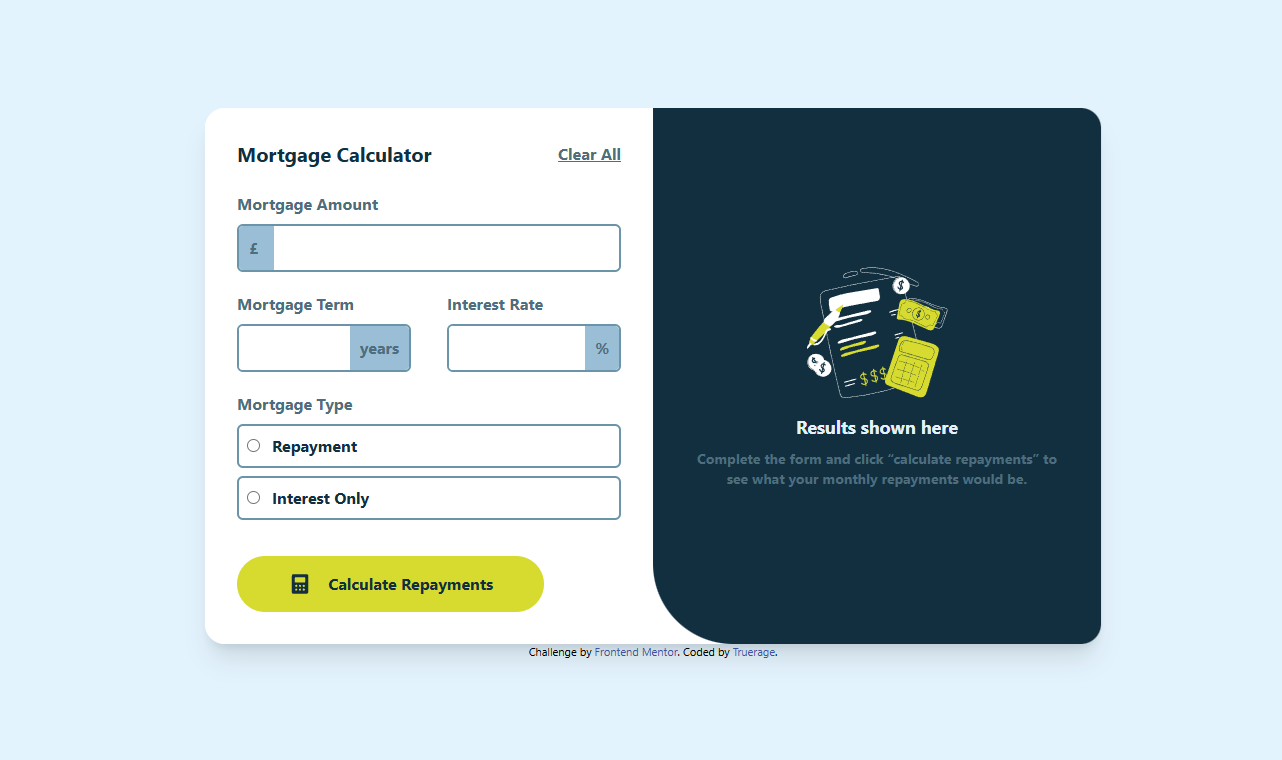
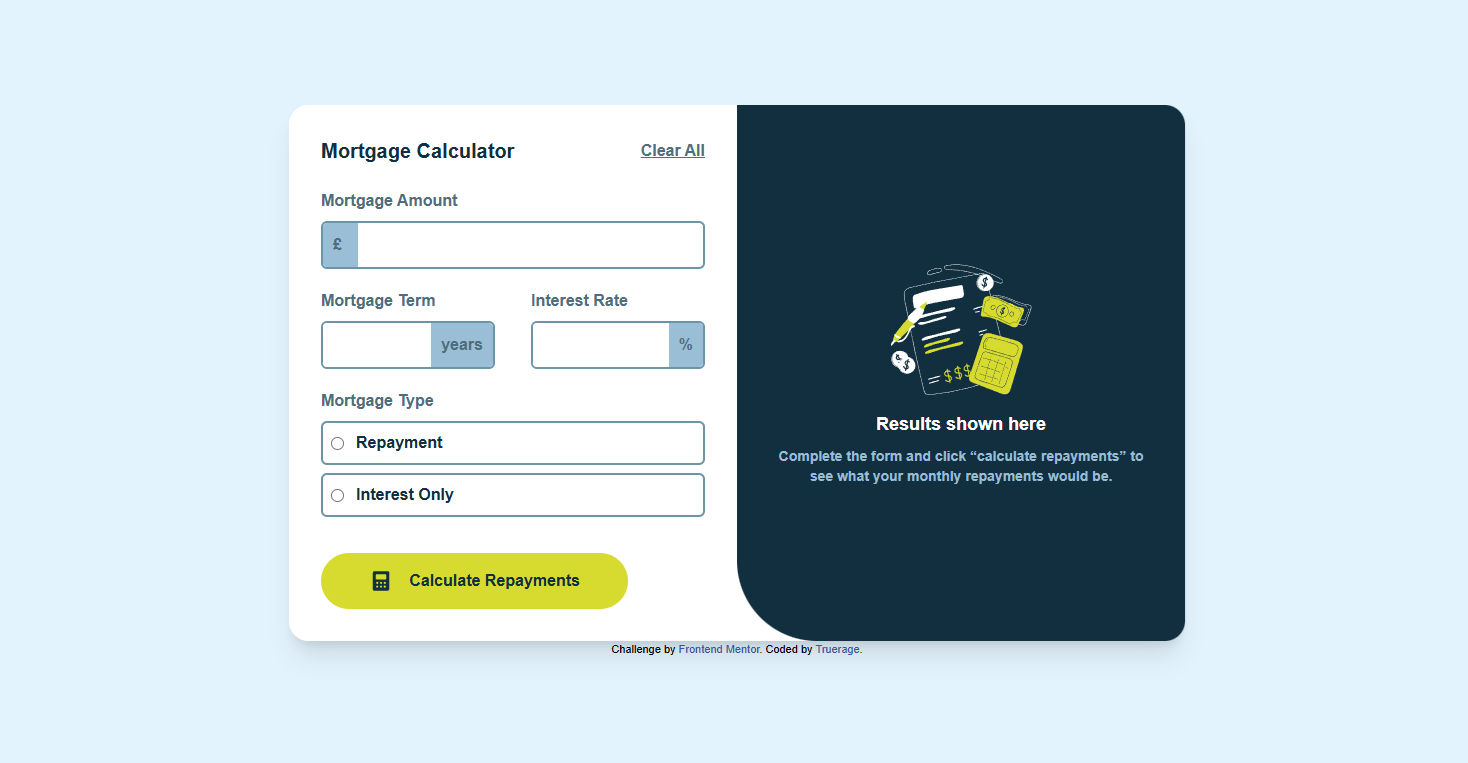
refactor

Changed region(s): [[0.156, 0.1211, 0.8736, 0.8776], [0.5928, 0.3329, 0.7488, 0.5145]]

diff --git a/index.html b/index.html
@@ -6,25 +6,46 @@
 
   <link rel="icon" type="image/png" sizes="32x32" href="./assets/images/favicon-32x32.png">
 
-  <script src="https://cdn.tailwindcss.com"></script>
+<script src="https://cdn.tailwindcss.com"></script>
   <script>
     tailwind.config = {
       theme: {
-        extend: {
+        extend: { 
           colors: {
-            "lime": "hsl(61,70%,52%)",
-            "red": "hsl(4,69%,50%)",
-            "white": "hsl(0,0%,100%)",
-            "slate-100": "hsl(202,86%,94%)",
-            "slate-300": "hsl(203,41%,72%)",
-            "slate-500": "hsl(200,26%,54%)",
-            "slate-700": "hsl(200,24%,40%)",
-            "slate-900": "hsl(202,55%,16%)"
+            lime: "hsl(61, 70%, 52%)",
+            red: "hsl(4, 69%, 50%)",
+            slate: {
+              100: "hsl(202, 86%, 94%)",
+              300: "hsl(203, 41%, 72%)",
+              500: "hsl(200, 26%, 54%)",
+              700: "hsl(200, 24%, 40%)",
+              900: "hsl(202, 55%, 16%)",
+            }
+          },
+          fontFamily: {
+            sans: ['"Plus Jakarta Sans"', "sans-serif"],
           }
         }
       }
     }
   </script>
+
+  <style>
+    @font-face {
+          font-family: "Plus Jakarta Sans";
+          src: url("assets/fonts/PlusJakartaSans-VariableFont_wght.woff2") format("woff2");
+          font-weight: 200 800;
+          font-display: swap;
+        }
+    body {
+          font-family: "Plus Jakarta Sans", sans-serif;
+          font-weight: 400;
+        }
+
+        h1 {
+          font-weight: 700;
+        }
+  </style>
   
   <title>Frontend Mentor | Mortgage repayment calculator</title>
 
@@ -77,28 +98,27 @@
                 </div>
             </div>
 
-          <div class="flex flex-col mt-4">
-            <label class="text-slate-700 font-bold mb-2" for="mortgage-type">Mortgage Type</label>
-            <div class="border-2 border-slate-500 rounded-md p-2 mb-2 font-bold text-slate-900 hover:border-lime focus-within:border-lime focus-within:bg-[hsl(61,70%,92%)]">
-              <input type="radio" id="mortgage-type-1" name="mortgage-type" value="repayment"><span class="ml-3">Repayment</span>
-            </div>
-            <div class="border-2 border-slate-500 rounded-md p-2 font-bold text-slate-900 hover:border-lime focus-within:border-lime focus-within:bg-[hsl(61,70%,92%)]">
-              <input type="radio" id="mortgage-type-2" name="mortgage-type" value="interest-only"><span class="ml-3">Interest Only</span>
-            </div>
-          </div>
+          <fieldset class="mt-4">
+            <legend class="text-slate-700 font-bold mb-2">Mortgage Type</legend>
+            <label class="flex items-center gap-3 border-2 border-slate-500 rounded-md p-2 mb-2 font-bold text-slate-900 cursor-pointer hover:border-lime has-[:checked]:border-lime has-[:checked]:bg-[hsl(61,70%,92%)]">
+              <input type="radio" name="mortgage-type" value="repayment"> Repayment
+            </label>
+            <label class="flex items-center gap-3 border-2 border-slate-500 rounded-md p-2 font-bold text-slate-900 cursor-pointer hover:border-lime has-[:checked]:border-lime has-[:checked]:bg-[hsl(61,70%,92%)]">
+              <input type="radio" name="mortgage-type" value="interest-only"> Interest Only
+            </label>
+          </fieldset>
           <div class="flex flex-col text-red text-sm mt-1 font-bold" id="mortgage-type-error"></div>
 
           <button class="bg-lime font-bold text-slate-900 rounded-[50px] w-[80%] justify-center items-center gap-2 flex p-4 mt-8" type="button" id="calculate-button"><img class="mr-2" src="assets/images/icon-calculator.svg" alt="icon-calculator">Calculate Repayments</button>
           </form>
       </div>
 
-
       <!-- RIGHT COLUMN -->
-      <div class="grid bg-slate-900 text-[hsl(202,86%,94%)] h-full p-5 md:rounded-r-[20px] md:rounded-bl-[80px]">
+      <div class="grid bg-slate-900 text-slate-300 h-full p-5 md:rounded-r-[20px] md:rounded-bl-[80px]">
         <div class="flex flex-col items-center justify-center h-full text-center p-5" id="results">
           <img src="assets/images/illustration-empty.svg" alt="illustration-empty" width="150px">
-          <h1 class="font-bold text-lg pb-2">Results shown here</h1>
-          <p class="font-bold text-sm text-[hsl(200,24%,40%)]">Complete the form and click “calculate repayments” to see what your monthly repayments would be.</p>
+          <h1 class="font-bold text-lg pb-2 text-white">Results shown here</h1>
+          <p class="font-bold text-sm text-slate-300">Complete the form and click “calculate repayments” to see what your monthly repayments would be.</p>
         </div>
       </div>
     </div>

diff --git a/CalculateRepayments.js b/CalculateRepayments.js
@@ -21,22 +21,7 @@
 
     const mortgageTypeError = document.getElementById('mortgage-type-error');
 
-
-    document.addEventListener('DOMContentLoaded', () => {
-    const inputs = document.querySelectorAll('input[name="mortgage-type"]');
-
-    inputs.forEach(input => {
-      input.addEventListener('change', () => {
-        inputs.forEach(i => i.parentElement.classList.remove('border-lime', 'bg-[hsl(61,70%,92%)]'));
-
-        if (input.checked) {
-          input.parentElement.classList.add('border-lime', 'bg-[hsl(61,70%,92%)]');
-        }
-        });
-      });
-    });
-
-
+    
     clearButton.addEventListener('click', () => {
       mortgageAmountInput.value = '';
       mortgageTermInput.value = '';
@@ -63,8 +48,8 @@
 
       resultsDiv.innerHTML = `
         <img src="assets/images/illustration-empty.svg" alt="illustration-empty" width="150px">
-        <h1 class="font-bold text-lg pb-2">Results shown here</h1>
-        <p class="font-bold text-sm text-[hsl(200,24%,40%)]">Complete the form and click “calculate repayments” to see what your monthly repayments would be.</p>
+        <h1 class="font-bold text-lg pb-2 text-white">Results shown here</h1>
+        <p class="font-bold text-sm text-slate-300">Complete the form and click “calculate repayments” to see what your monthly repayments would be.</p>
       `;
     });
 
@@ -138,33 +123,43 @@
         mortgageTypeError.textContent = '';
 
         let monthlyRepayment;
+        
+        if (mortgageAmount <= 0 || mortgageTerm <= 0) {
 
-        if (mortgageType === 'repayment') {
+          monthlyRepayment = 0;
+
+        } else if (mortgageType === 'repayment') {
+
           const monthlyInterestRate = interestRate / 12;
+
           const numberOfPayments = mortgageTerm * 12;
-          monthlyRepayment = (mortgageAmount * monthlyInterestRate) / (1 - Math.pow(1 + monthlyInterestRate, -numberOfPayments));
+
+          monthlyRepayment = monthlyInterestRate === 0 ? mortgageAmount / numberOfPayments : (mortgageAmount * monthlyInterestRate) / (1 - Math.pow(1 + monthlyInterestRate, -numberOfPayments));
+
         } else if (mortgageType === 'interest-only') {
+
           monthlyRepayment = (mortgageAmount * interestRate) / 12;
+
         }
         
         resultsDiv.innerHTML = `
-          <div class="flex flex-col items-left justify-left h-full text-left">
+          <div class="flex flex-col items-left justify-left h-full text-left aria-live="polite"">
             <h1 class="font-bold text-lg pb-2">Your results</h1>
-            <p class="font-bold text-sm text-slate-700">Your results are shown below based on the information you provided. To adjust the results, edit the form and click “calculate repayments” again.</p>
-            <div class="bg-[hsl(202,75%,10%)] p-4 rounded-md mt-8 border-t-2 border-t-lime pt-4 text-slate-700">
+            <p class="font-bold text-sm text-slate-300">Your results are shown below based on the information you provided. To adjust the results, edit the form and click “calculate repayments” again.</p>
+            <div class="bg-[hsl(202,75%,10%)] p-4 rounded-md mt-8 border-t-2 border-t-lime pt-4 text-slate-300">
               <div class="mt-2 ml-3">
                 <h2 class="font-bold">Your monthly repayments</h2>
-                <p class="font-bold text-[40px] text-lime">£${monthlyRepayment.toFixed(2)}</p>
+                <p class="font-bold text-[40px] text-lime">${new Intl.NumberFormat('en-GB', { style: 'currency', currency: 'GBP' }).format(monthlyRepayment)}</p>
                 <br>
-                <hr class="border-t-2 border-t-slate-700">
+                <hr class="border-t-2 border-t-slate-300">
               </div>
 
               <div class="mt-6 mb-2 ml-3">
                 <h2 class="font-bold">Total you'll repay over the term</h2>
-                <p class="font-bold text-lg text-white">£${(monthlyRepayment * mortgageTerm * 12).toFixed(2)}</p>
+                <p class="font-bold text-lg text-white">${new Intl.NumberFormat('en-GB', { style: 'currency', currency: 'GBP' }).format(monthlyRepayment * mortgageTerm * 12)}</p>
               </div>
             </div>
           </div>
         `;
         }
-    });
+    });  
